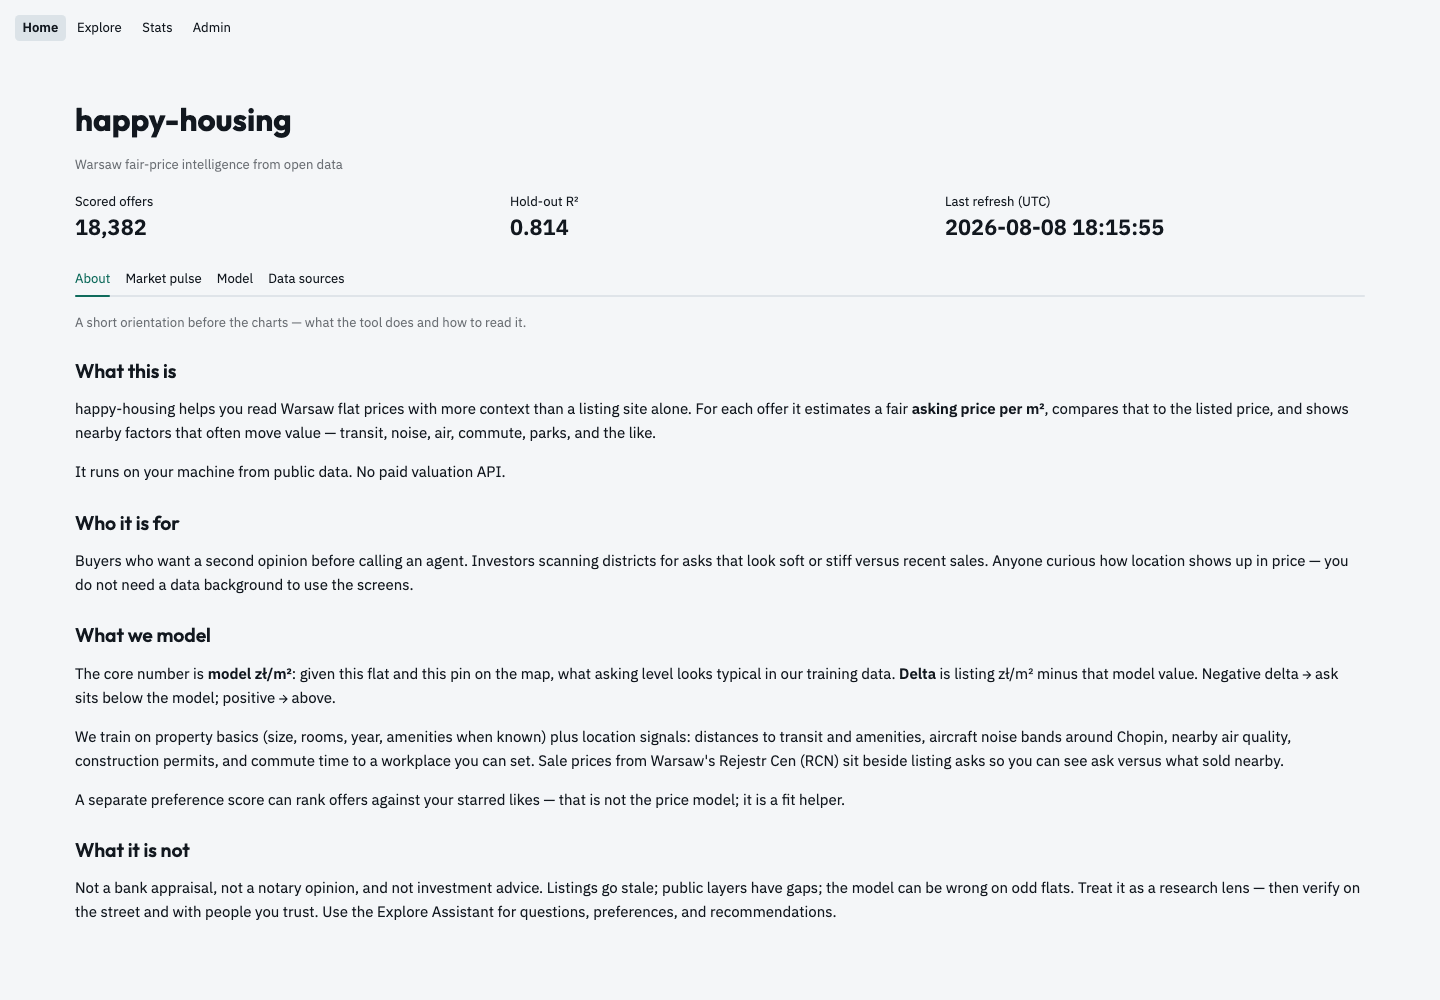
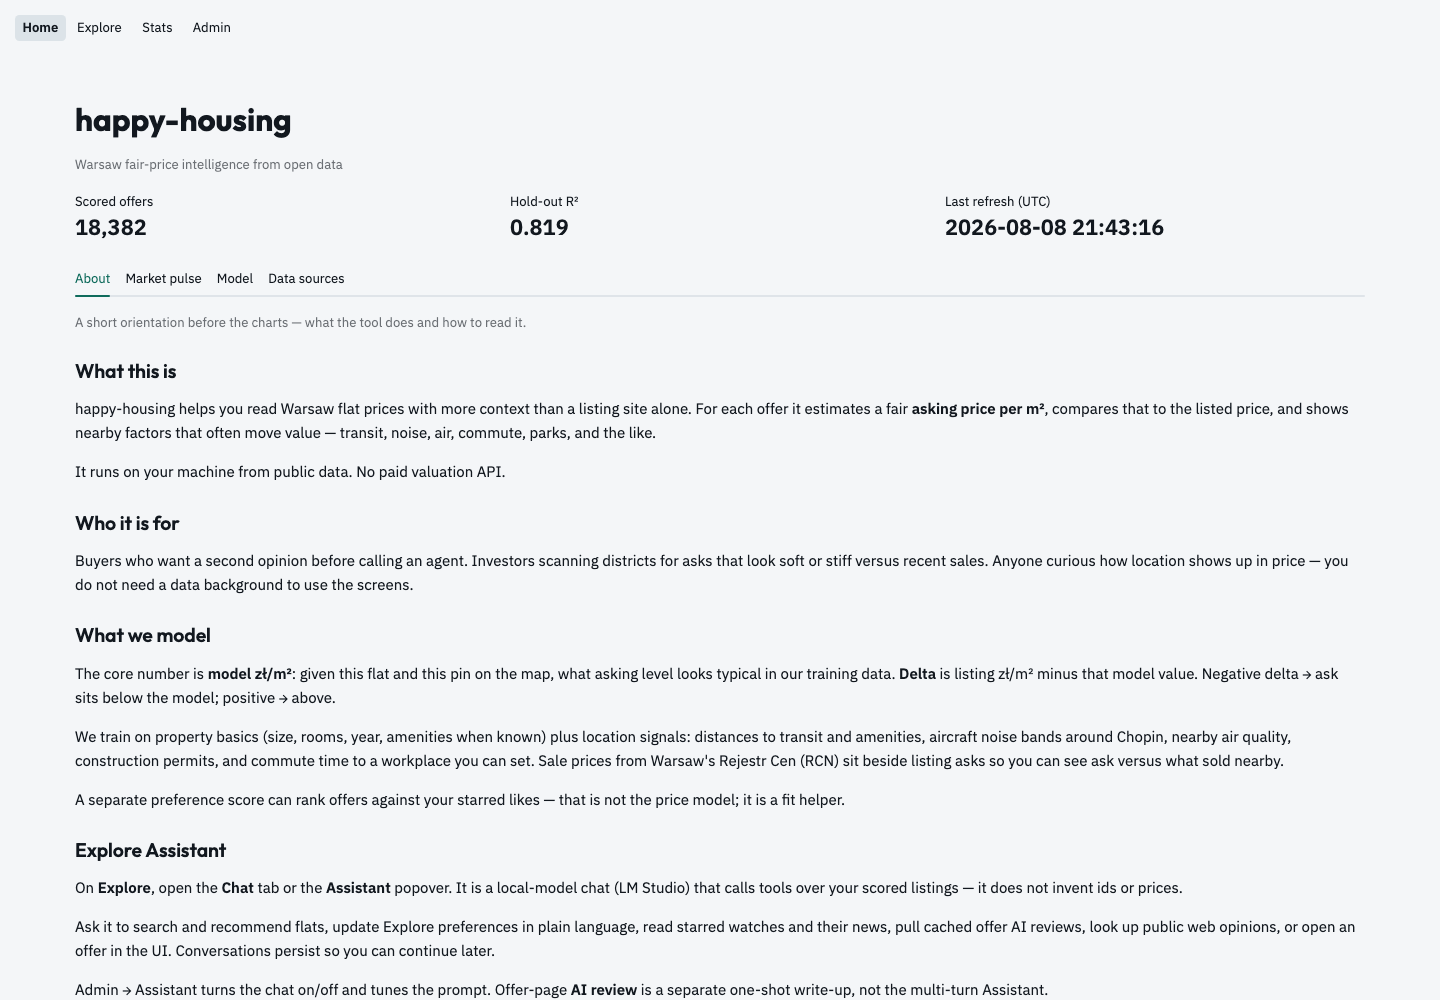
docs(home): describe Explore Assistant on About tab
Buyers need a plain-language tour of Chat/popover tools before
opening Explore; keep it in About rather than a fifth Home tab.

Changed region(s): [[0.0312, 0.837, 0.9375, 1.0], [0.75, 0.217, 0.8125, 0.248]]

diff --git a/src/happy_housing/app/home_about.py b/src/happy_housing/app/home_about.py
@@ -54,14 +54,28 @@ ABOUT_SECTIONS: tuple[AboutSection, ...] = (
         ),
     ),
     AboutSection(
+        title="Explore Assistant",
+        body=(
+            "On **Explore**, open the **Chat** tab or the **Assistant** "
+            "popover. It is a local-model chat (LM Studio) that calls tools "
+            "over your scored listings — it does not invent ids or prices.\n\n"
+            "Ask it to search and recommend flats, update Explore preferences "
+            "in plain language, read starred watches and their news, pull "
+            "cached offer AI reviews, look up public web opinions, or open "
+            "an offer in the UI. Conversations persist so you can continue "
+            "later.\n\n"
+            "Admin → Assistant turns the chat on/off and tunes the prompt. "
+            "Offer-page **AI review** is a separate one-shot write-up, not "
+            "the multi-turn Assistant."
+        ),
+    ),
+    AboutSection(
         title="What it is not",
         body=(
             "Not a bank appraisal, not a notary opinion, and not investment "
             "advice. Listings go stale; public layers have gaps; the model "
             "can be wrong on odd flats. Treat it as a research lens — then "
-            "verify on the street and with people you trust. "
-            "Use the Explore Assistant for questions, preferences, and "
-            "recommendations."
+            "verify on the street and with people you trust."
         ),
     ),
 )

diff --git a/tests/app/test_home_about.py b/tests/app/test_home_about.py
@@ -10,9 +10,20 @@ def test_about_sections_cover_business_basics() -> None:
     assert titles[0] == "What this is"
     assert "Who it is for" in titles
     assert "What we model" in titles
+    assert "Explore Assistant" in titles
     assert "What it is not" in titles
     assert "Where to go next" not in titles
-    assert "Assistant" in ABOUT_SECTIONS[-1].body
+    assert titles.index("Explore Assistant") < titles.index("What it is not")
+
+
+def test_assistant_section_explains_capabilities() -> None:
+    section = next(s for s in ABOUT_SECTIONS if s.title == "Explore Assistant")
+    low = section.body.lower()
+    assert "explore" in low
+    assert "chat" in low
+    for needle in ("recommend", "prefer", "star", "offer"):
+        assert needle in low, f"missing capability cue '{needle}'"
+    assert "lm studio" in low or "local model" in low
 
 
 def test_about_copy_stays_plain_and_nonempty() -> None:

diff --git a/README.md b/README.md
@@ -20,8 +20,8 @@ Streamlit multipage UI: **Home · Explore · Stats · Admin**.
 
 ### Home
 
-Default **About** tab (purpose and how to read the numbers), then market pulse
-charts, model hold-out metrics, and open-data source inventory.
+Default **About** tab (purpose, Explore Assistant, how to read the numbers),
+then market pulse charts, model hold-out metrics, and open-data source inventory.
 
 ![Home — Market pulse](docs/screenshots/01b-home-pulse.png)
 
